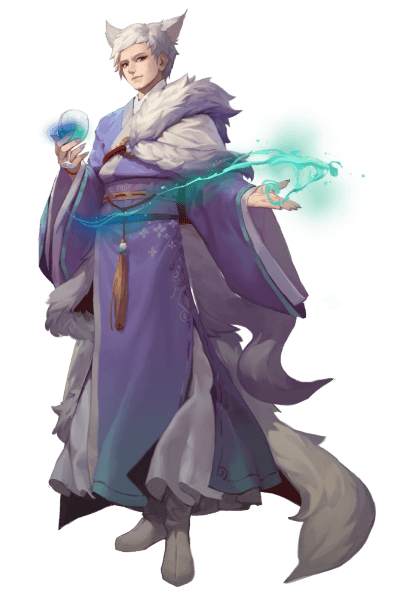
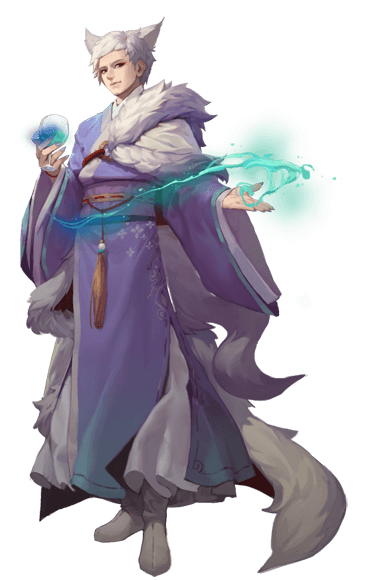
pic

Changed region(s): [[0.03, 0.0, 0.9591, 0.9931], [0.8992, 0.8069, 0.9292, 0.8379], [0.8992, 0.2793, 0.9292, 0.3103]]

diff --git a/src/single/character/index.less b/src/single/character/index.less
@@ -102,7 +102,7 @@
       background-size:contain;
       .img{
         position:absolute;
-        right:46%;
+        right:44%;
         top:50%;
         width:400px;
         height:600px;
@@ -174,7 +174,7 @@
       background-size:contain;
       .img{
         position:absolute;
-        right:44%;
+        right:42%;
         top:50%;
         width:400px;
         height:600px;
